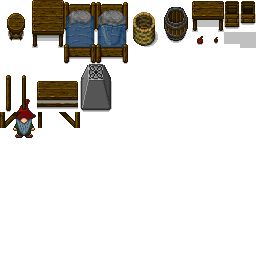
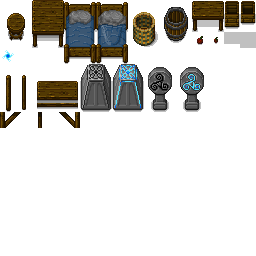
updated spark source, added relay, wip: spark projectile

diff --git a/js/sparkAssets.js b/js/sparkAssets.js
@@ -36,22 +36,26 @@ class SparkAssets {
                 {tag: "bed.empty", cls: "Sprite", width: 16*2, height: 16*4, x: 16*4, y: 16*0 },
                 {tag: "bed.occupied", cls: "Sprite", width: 16*2, height: 16*4, x: 16*6, y: 16*0 },
                 {tag: "basket", cls: "Sprite", width: 16*2, height: 16*4, x: 16*6, y: 16*0 },
-                Templates.xsprite("basket", 8, 0, {tileSize: 16, width: 32, height: 48}),
-                Templates.xsprite("barrel", 10, 0, {tileSize: 16, width: 32, height: 48}),
-                Templates.xsprite("halfTable", 12, 0, {tileSize: 16, width: 32, height: 32}),
-                Templates.xsprite("crate", 14, 0, {tileSize: 16, width: 16, height: 32}),
-                Templates.xsprite("halfCrate", 15, 0, {tileSize: 16, width: 16, height: 32}),
-                Templates.xsprite("apple", 12, 2, {tileSize: 16}),
-                Templates.xsprite("strawberry", 13, 2, {tileSize: 16}),
-                Templates.xsprite("shadow34", 14, 2, {tileSize: 16}),
-                Templates.xsprite("shadow", 15, 2, {tileSize: 16}),
-                Templates.xsprite("post", 0, 4, {tileSize: 16, height: 48}),
-                Templates.xsprite("post.s", 1, 4, {tileSize: 16, height: 48}),
-                Templates.xsprite("vendorBench", 2, 5, {tileSize: 16, width: 48, height: 32}),
-                Templates.xsprite("postUpper.l", 0, 7, {tileSize: 16, width: 32 }),
-                Templates.xsprite("postUpper.s", 2, 7, {tileSize: 16}),
-                Templates.xsprite("postUpper.r", 3, 7, {tileSize: 16, width: 32 }),
-                Templates.xsprite("monolith", 5, 4, {tileSize: 16, width: 32, height: 48}),
+                Templates.xsprite("basket", 8, 0, {width: 32, height: 48}),
+                Templates.xsprite("barrel", 10, 0, {width: 32, height: 48}),
+                Templates.xsprite("halfTable", 12, 0, {width: 32, height: 32}),
+                Templates.xsprite("crate", 14, 0, {width: 16, height: 32}),
+                Templates.xsprite("halfCrate", 15, 0, {width: 16, height: 32}),
+                Templates.xsprite("apple", 12, 2),
+                Templates.xsprite("strawberry", 13, 2),
+                Templates.xsprite("shadow34", 14, 2),
+                Templates.xsprite("shadow", 15, 2),
+                Templates.xsprite("post", 0, 4, {height: 48}),
+                Templates.xsprite("post.s", 1, 4, {height: 48}),
+                Templates.xsprite("vendorBench",        2, 5, {width: 48, height: 32}),
+                Templates.xsprite("postUpper.l",        0, 7, {width: 32 }),
+                Templates.xsprite("postUpper.s",        2, 7),
+                Templates.xsprite("postUpper.r",        3, 7, {width: 32 }),
+                Templates.xsprite("monolith",           5, 4, {width: 32, height: 48}),
+                Templates.xsprite("monolith.active",    7, 4, {width: 32, height: 48}),
+                Templates.xsprite("relay",              9, 4, {width: 32, height: 48}),
+                Templates.xsprite("relay.active",       11, 4, {width: 32, height: 48}),
+                Templates.xsprite("spark",              0, 3),
             ]},
 
             { src: "img/stuccoWalls1.png", loader: "Sheet", refs: [
@@ -173,6 +177,7 @@ class SparkAssets {
             Templates.tile("00m", "postUpper.s", { xxform: {dx:8} }),
             Templates.tile("00n", "postUpper.r", { xxform: {dx:8} }),
             Templates.tile("00o", "monolith", { xxform: {dx:8} }),
+            Templates.tile("00p", "relay", { xxform: {dx:8} }),
 
             { id: "o01", tag: "woodDoor", cls: "Door", xcollider: {}, xxform: {dx: 24}, xsketch: { cls: "Media", tag: "woodDoor"} },
             { id: "o02", tag: "stool", cls: "Chair", 
@@ -192,6 +197,10 @@ class SparkAssets {
                 xsketch: { cls: "Media", tag: "bed"}, 
                 occupiedOffX: 8, 
                 occupiedOffY: -14 
+            },
+
+            { tag: "spark", cls: "Projectile", 
+                xsketch: { cls: "Media", tag: "spark"}, 
             },
 
             { id: "c01",    tag: "player", cls: "Character", 

diff --git a/js/interactSystem.js b/js/interactSystem.js
@@ -3,6 +3,8 @@ export { InteractSystem };
 import { System } from "./base/system.js";
 import { Bounds } from "./base/bounds.js";
 import { Vect } from "./base/vect.js";
+import { Generator } from "./base/generator.js";
+import { Base } from "./base/base.js";
 
 class InteractSystem extends System {
     // CONSTRUCTOR ---------------------------------------------------------
@@ -13,31 +15,63 @@ class InteractSystem extends System {
     cpost(spec) {
         super.cpost(spec);
         this.findOverlaps = spec.findOverlaps || ((v) => {return [];});
+        this.assets = spec.assets || Base.instance.assets;
     }
 
     // PROPERTIES ----------------------------------------------------------
 
     // METHODS -------------------------------------------------------------
-    iterate(ctx, e) {
-        // only match entities that are interacting...
-        if (!e.interact) return;
-        console.log("e.interact is true");
-        e.interact = false;
+    dospark(ctx, e) {
+        console.log("dospark");
+        // spawn spark projectile at actor
+        let xspark = Object.assign(
+            this.assets.fromTag("spark"),
+            {
+                heading: e.heading,
+                x: e.x,
+                y: e.y,
+            }
+        );
+        let spark = Generator.generate(xspark);
+        console.log("spark: " + spark);
+    }
+
+    dointeract(ctx, e) {
+        let ok = false;
         // check for objects within range...
         let bounds = new Bounds(e.x-e.interactRange, e.y-e.interactRange, e.interactRange+e.interactRange, e.interactRange+e.interactRange);
         //console.log(`${e} + checks: ${bounds} range: ${e.interactRange}`);
         //let objs = this.findOverlaps(bounds, (v) => (v.interactable && Vect.dist(e, v) <= e.interactRange));
         let objs = this.findOverlaps(bounds, (v) => {
-            console.log("consider: " + v);
+            //console.log("consider: " + v);
             if (!v.interactable) return false;
             let d = Vect.dist(e, v);
             console.log("d: " + d);
             return (d <= e.interactRange);
         });
         for (const obj of objs) {
+            // FIXME: add priority system to object interaction to drive which object gets interaction
+            // FIXME: only attempt to interact w/ one object at a time
             console.log(`${e} interacts with: ${objs}`);
             obj.dointeract(e);
+            ok = true;
         }
+        return ok;
+    }
+
+    iterate(ctx, e) {
+        // only match entities that are interacting...
+        if (!e.interact) return;
+        console.log("e.interact is true");
+        e.interact = false;
+
+        // attempt object interaction...
+        if (this.dointeract(ctx, e)) return;
+
+        // otherwise... attempt spark
+        if (this.dospark(ctx, e)) return;
+
+
     }
 
 }

diff --git a/js/sparkSystem.js b/js/sparkSystem.js
@@ -1,0 +1,46 @@
+export { SparkSystem };
+
+import { System }           from "./base/system.js";
+import { Mathf }            from "./base/math.js";
+
+/*
+import { Bounds }           from "./base/bounds.js";
+import { Vect }             from "./base/vect.js";
+import { ModelState }       from "./base/modelState.js";
+import { Util }             from "./base/util.js";
+*/
+
+class SparkSystem extends System {
+    // CONSTRUCTOR ---------------------------------------------------------
+    cpre(spec) {
+        super.cpre(spec);
+        spec.iterateTTL = spec.iterateTTL || 0;
+    }
+    /*
+    cpost(spec) {
+        super.cpost(spec);
+    }
+    */
+
+    // PROPERTIES ----------------------------------------------------------
+
+    // METHODS -------------------------------------------------------------
+    iterateProjectile(ctx, e) {
+        //console.log(`iterate projectile pos: ${e.x},${e.y}`);
+        // check range
+        let crange = Mathf.distance(e.x, e.y, e.origx, e.origy);
+        console.log(`max range: ${e.range} current range: ${crange} orig: ${e.origx},${e.origy}`);
+        if (crange >= e.range) {
+            console.log("at max range...");
+            // at max distance, destroy
+            e.destroy();
+        }
+    }
+
+
+    iterate(ctx, e) {
+        // handle
+        if (e.tag === "spark") this.iterateProjectile(ctx, e);
+    }
+
+}

diff --git a/js/projectile.js b/js/projectile.js
@@ -1,0 +1,38 @@
+export { Projectile };
+
+import { Model }            from "./base/model.js";
+import { Config }           from "./base/config.js";
+import { Fmt } from "./base/fmt.js";
+
+class Projectile extends Model {
+    static dfltSpeed = .2;
+
+    // CONSTRUCTOR ---------------------------------------------------------
+    cpost(spec) {
+        console.log(`Projectile spec: ${Fmt.ofmt(spec)}`);
+        super.cpost(spec);
+        console.log(`Projectile spec after super cpost: ${Fmt.ofmt(spec)}`);
+        console.log(`position set to: ${this.x},${this.y}`);
+        this.heading = spec.heading || 0;
+        this.maxSpeed = spec.maxSpeed || Projectile.dfltSpeed;
+        this.speed = 1;
+        this.range = spec.range || Config.tileSize * 10;
+        console.log("range set to: " + this.range);
+        this.origx = this.x;
+        this.origy = this.y;
+        console.log(`orig set to: ${this.origx},${this.origy} from ${this.x},${this.y}`);
+    }
+
+
+    /*
+    iupdate(ctx) {
+        // check for range
+        if (Mathf.distance(this.x, this.y, this.origx, this.y) >= this.range) {
+        }
+        // FIXME: remove
+        //console.error("here");
+        return super.iupdate(ctx);
+    }
+    */
+
+}

diff --git a/js/spark.js b/js/spark.js
@@ -11,9 +11,10 @@ import { SparkAssets }      from "./sparkAssets.js";
 import { PlayState }        from "./playState.js";
 import { InteractSystem }   from "./interactSystem.js";
 import { AutoCloseSystem }  from "./autoCloseSystem.js";
-import { SparkRegistry } from "./registry.js";
-import { Templates } from "./templates.js";
-import { Base } from "./base/base.js";
+import { SparkRegistry }    from "./registry.js";
+import { Templates }        from "./templates.js";
+import { Base }             from "./base/base.js";
+import { SparkSystem }      from "./sparkSystem.js";
 //import { Assets } from "./base/assets.js";
 //import { UxMouse } from "./base/uxMouse.js";
 //import { ViewSystem } from "./systems/viewSystem.js";
@@ -81,6 +82,10 @@ class Spark extends Game {
         this.base.systemMgr.adopt(new AutoCloseSystem({
             dbg: false,
             findOverlaps: this.base.findOverlaps,
+        }));
+        // ---- spark system
+        this.base.systemMgr.adopt(new SparkSystem({
+            dbg: false,
         }));
 
         // initialize and start master game state

diff --git a/js/world.js b/js/world.js
@@ -295,9 +295,9 @@ class World {
         width: 32,
         height: 24,
         xregions: [
-            this.genRegion({width: 32, height: 24, xlayers: [{ id: '002j' }]}),
-            this.house1,
-            this.vendor1,
+            //this.genRegion({width: 32, height: 24, xlayers: [{ id: '002j' }]}),
+            //this.house1,
+            //this.vendor1,
             {
                 width: 4,
                 height: 4,
@@ -323,10 +323,10 @@ class World {
                         */
 
                         fb: [   
+                            "0000","000o","0000","0000",
                             "0000","0000","0000","0000",
-                            "0000","0000","000o","0000",
                             "0000","0000","0000","0000",
-                            "0c01","0000","0000","0000",
+                            "0c01","0000","0000","000p",
                         ],
                     },
                 },

diff --git a/js/character.js b/js/character.js
@@ -11,11 +11,6 @@ class Character extends Model {
     // CONSTRUCTOR ---------------------------------------------------------
     cpost(spec) {
         super.cpost(spec);
-        // -- position
-        this._x = spec.x || 0;
-        this._y = spec.y || 0;
-        // -- sketch
-        this.xsketch = spec.xsketch || {};
         // -- movement state
         this.heading = 0;
         this.speed = 0;
@@ -24,10 +19,6 @@ class Character extends Model {
         // -- AI state
         this.ai = (spec.hasOwnProperty("xai")) ? Generator.generate(spec.xai) : undefined;
         //if (this.ai) console.log("char ai: " + Fmt.ofmt(this.ai));
-        // -- collider
-        if (spec.xcollider) {
-            this.collider = Generator.generate(Object.assign({"cls": "Collider", x: this.x, y: this.y}, spec.xcollider));
-        }
         // -- interactRange
         this.interactRange = spec.interactRange || Config.tileSize*2;
         // -- actor

diff --git a/js/registry.js b/js/registry.js
@@ -13,12 +13,14 @@ import { MoveScheme }       from "./actions/move.js";
 import { Bed }              from "./bed.js";
 import { WakeFromBedScheme } from "./actions/wakeFromBed.js";
 import { Chair }            from "./chair.js";
+import { Projectile }       from "./projectile.js";
 
 class SparkRegistry {
     static init() {
         // -- register goals
         AiGoal.register("sleep");
         // -- register model states
+        ModelState.register("active");
         ModelState.register("open");
         ModelState.register("close");
         ModelState.register("sleep");
@@ -36,6 +38,7 @@ class SparkRegistry {
         registry.add(Chair);
         registry.add(Stairs);
         registry.add(Bed);
+        registry.add(Projectile);
         // -- register schemes
         registry.add(SleepBedScheme);
         registry.add(FindBedScheme);

diff --git a/js/base/model.js b/js/base/model.js
@@ -23,6 +23,8 @@ class Model extends Gizmo {
     constructor(spec={}) {
         spec.cat = "Model";
         super(spec);
+    }
+    cpost(spec) {
         // -- ID represents unique asset ID
         this.id = spec.id || 0;
         // -- depth is relative draw depth (relative to layer)
